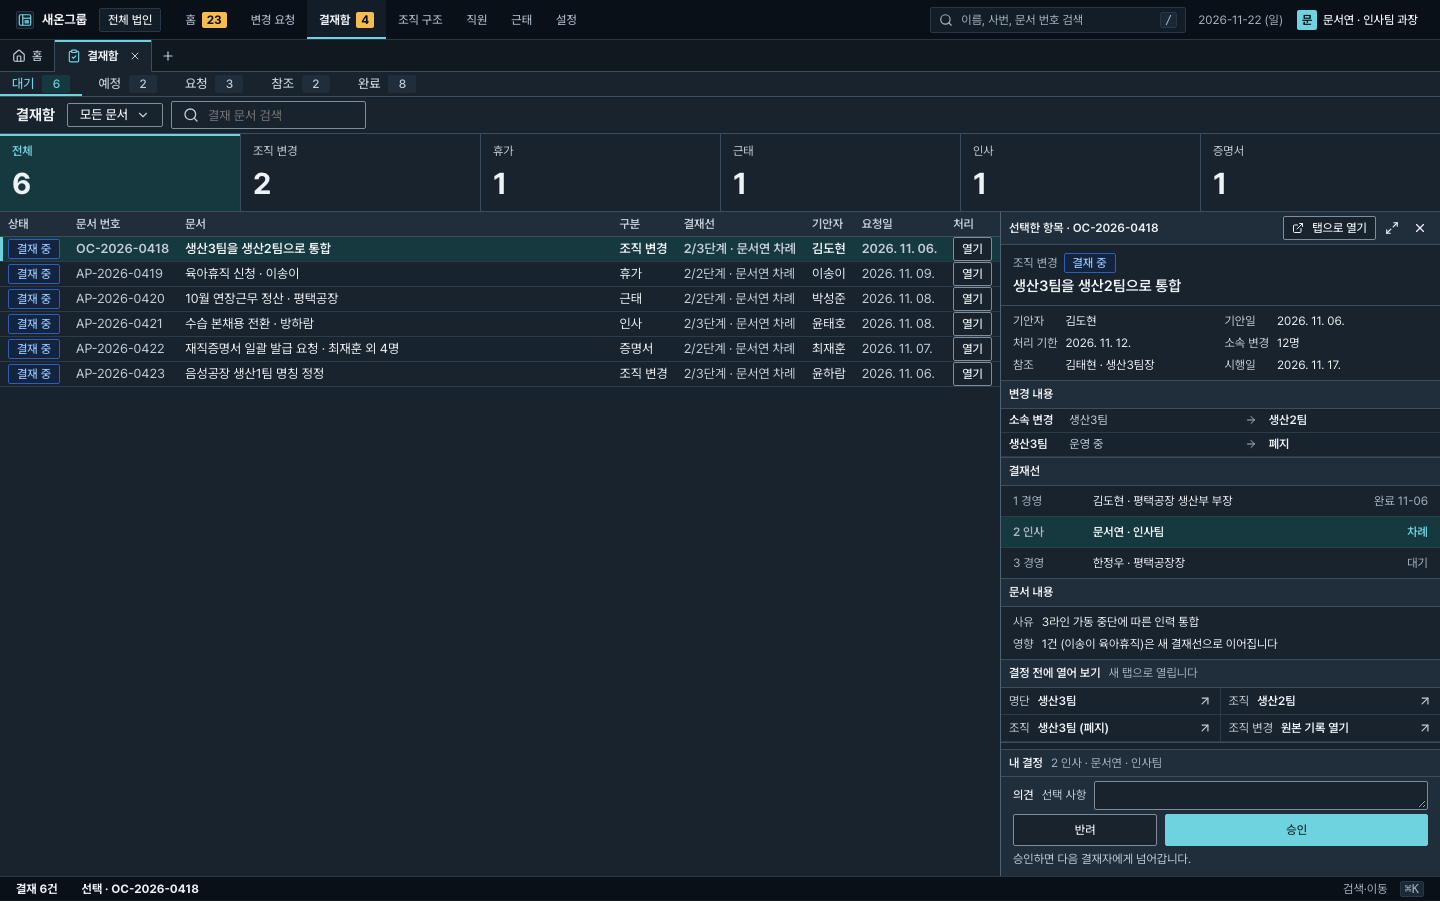
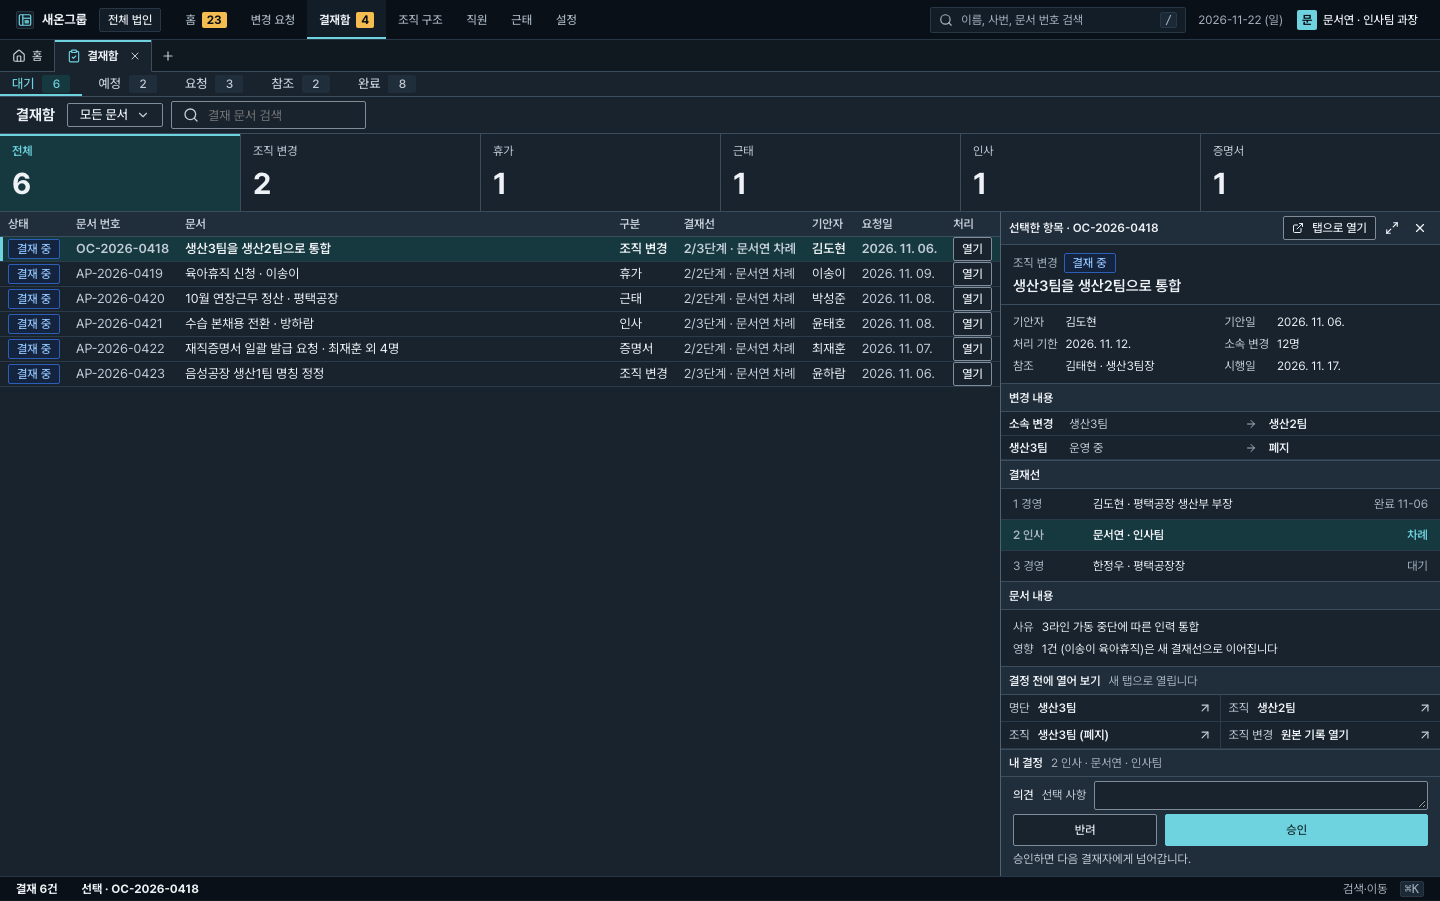
fix(approvals): use WorklistSection and WorklistPadded instead of page-local padding

Changed region(s): [[0.6875, 0.3418, 1.0, 0.8391]]

diff --git a/apps/web/src/features/approvals/ui/approvals-console.tsx b/apps/web/src/features/approvals/ui/approvals-console.tsx
@@ -15,6 +15,7 @@ import { DocLinkContent, DocLinkList } from "../../../ui/patterns/document-decis
 import {
   WorklistChain,
   WorklistMoreBar,
+  WorklistPadded,
   WorklistSection,
   WorklistSummaryHead,
   type WorklistChainStep,
@@ -186,10 +187,8 @@ export function ConsoleApprovalSideView({ document: d }: { document: ApprovalDoc
         }
         title={d.title}
       />
-      <WorklistSection>
-        <div className={s.consolePad}>
-          <ApprovalFactsContent document={d} dense includeDocNo={false} columns={2} />
-        </div>
+      <WorklistSection padded>
+        <ApprovalFactsContent document={d} dense includeDocNo={false} columns={2} />
       </WorklistSection>
       {diffs.length > 0 && (
         <WorklistSection>
@@ -206,9 +205,9 @@ export function ConsoleApprovalSideView({ document: d }: { document: ApprovalDoc
       {detailItems.length > 0 ? (
         <WorklistSection>
           <PaneHead title={t("approvals.viewer.body")} level={3} />
-          <div className={s.consolePad}>
+          <WorklistPadded>
             <KeyValue density="dense" readOnly items={detailItems} />
-          </div>
+          </WorklistPadded>
         </WorklistSection>
       ) : null}
       {relatedLinks.length > 0 ? (

diff --git a/apps/web/src/features/approvals/ui/approvals-page.module.css b/apps/web/src/features/approvals/ui/approvals-page.module.css
@@ -39,7 +39,6 @@
 .consolePhoneMeta { display: none; }
 .consoleDesktopSource { display: inline; }
 .consoleBody { display: flex; flex-direction: column; min-width: 0; }
-.consolePad { padding: var(--space-1-5) var(--space-3); }
 .consoleKicker { display: inline-flex; align-items: center; gap: var(--space-1-5); flex-wrap: wrap; }
 @container list-table (max-width: 480px) {
   .consolePhoneMeta { display: inline; }
